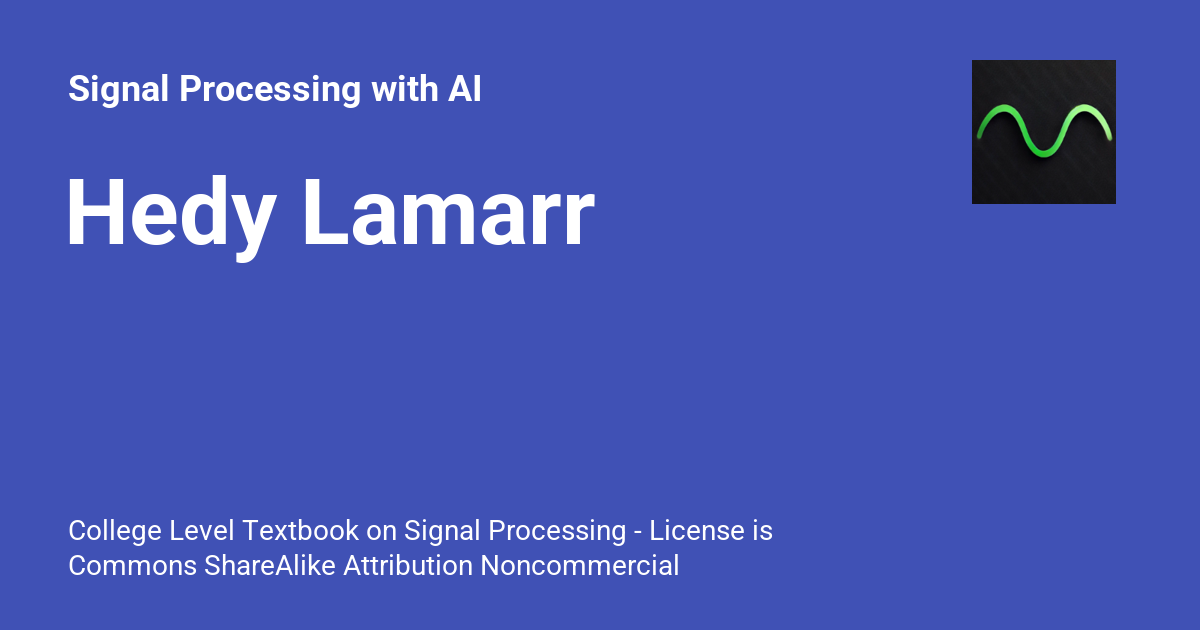
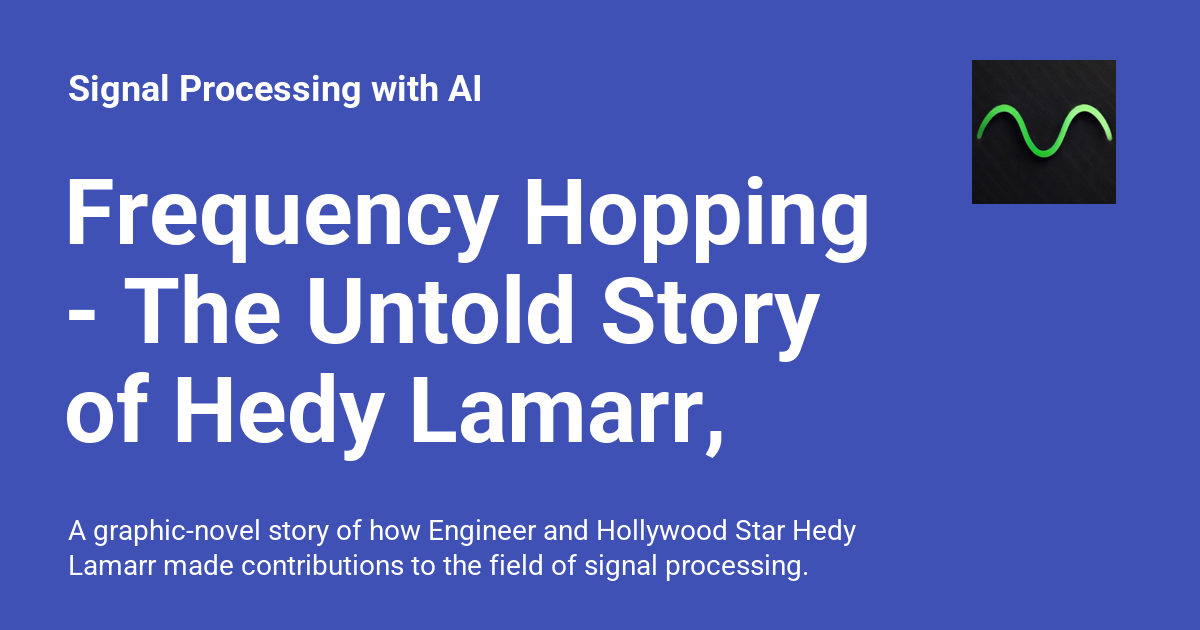
Deployed 8ab823a with MkDocs version: 1.6.1

Changed region(s): [[0.0617, 0.2714, 0.74, 0.573], [0.0617, 0.8143, 0.7092, 0.9349], [0.0308, 0.573, 0.6167, 0.754]]

diff --git a/stories/hedy-lamarr/index.html b/stories/hedy-lamarr/index.html
@@ -6,7 +6,7 @@
       <meta charset="utf-8">
       <meta name="viewport" content="width=device-width,initial-scale=1">
       
-        <meta name="description" content="College Level Textbook on Signal Processing - License is Commons ShareAlike Attribution Noncommercial">
+        <meta name="description" content="A graphic-novel story of how Engineer and Hollywood Star Hedy Lamarr made contributions to the field of signal processing.">
       
       
         <meta name="author" content="Dan McCreary">
@@ -26,7 +26,7 @@
     
     
       
-        <title>Hedy Lamarr - Signal Processing with AI</title>
+        <title>Frequency Hopping - The Untold Story of Hedy Lamarr, Engineer and Hollywood Star - Signal Processing with AI</title>
       
     
     
@@ -73,11 +73,11 @@
       
         <meta  property="og:type"  content="website" >
       
-        <meta  property="og:title"  content="Hedy Lamarr - Signal Processing with AI" >
+        <meta  property="og:title"  content="Frequency Hopping - The Untold Story of Hedy Lamarr, Engineer and Hollywood Star - Signal Processing with AI" >
       
-        <meta  property="og:description"  content="College Level Textbook on Signal Processing - License is Commons ShareAlike Attribution Noncommercial" >
+        <meta  property="og:description"  content="A graphic-novel story of how Engineer and Hollywood Star Hedy Lamarr made contributions to the field of signal processing." >
       
-        <meta  property="og:image"  content="https://dmccreary.github.io/signal-processing/assets/images/social/stories/hedy-lamarr/index.png" >
+        <meta property="og:image" content="https://dmccreary.github.io/signal-processing/stories/hedy-lamarr/cover.png">
       
         <meta  property="og:image:type"  content="image/png" >
       
@@ -89,11 +89,11 @@
       
         <meta  name="twitter:card"  content="summary_large_image" >
       
-        <meta  name="twitter:title"  content="Hedy Lamarr - Signal Processing with AI" >
+        <meta  name="twitter:title"  content="Frequency Hopping - The Untold Story of Hedy Lamarr, Engineer and Hollywood Star - Signal Processing with AI" >
       
-        <meta  name="twitter:description"  content="College Level Textbook on Signal Processing - License is Commons ShareAlike Attribution Noncommercial" >
+        <meta  name="twitter:description"  content="A graphic-novel story of how Engineer and Hollywood Star Hedy Lamarr made contributions to the field of signal processing." >
       
-        <meta  name="twitter:image"  content="https://dmccreary.github.io/signal-processing/assets/images/social/stories/hedy-lamarr/index.png" >
+        <meta name="twitter:image" content="https://dmccreary.github.io/signal-processing/stories/hedy-lamarr/cover.png">
       
     
     
@@ -149,7 +149,7 @@
         <div class="md-header__topic" data-md-component="header-topic">
           <span class="md-ellipsis">
             
-              Hedy Lamarr
+              Frequency Hopping - The Untold Story of Hedy Lamarr, Engineer and Hollywood Star
             
           </span>
         </div>
